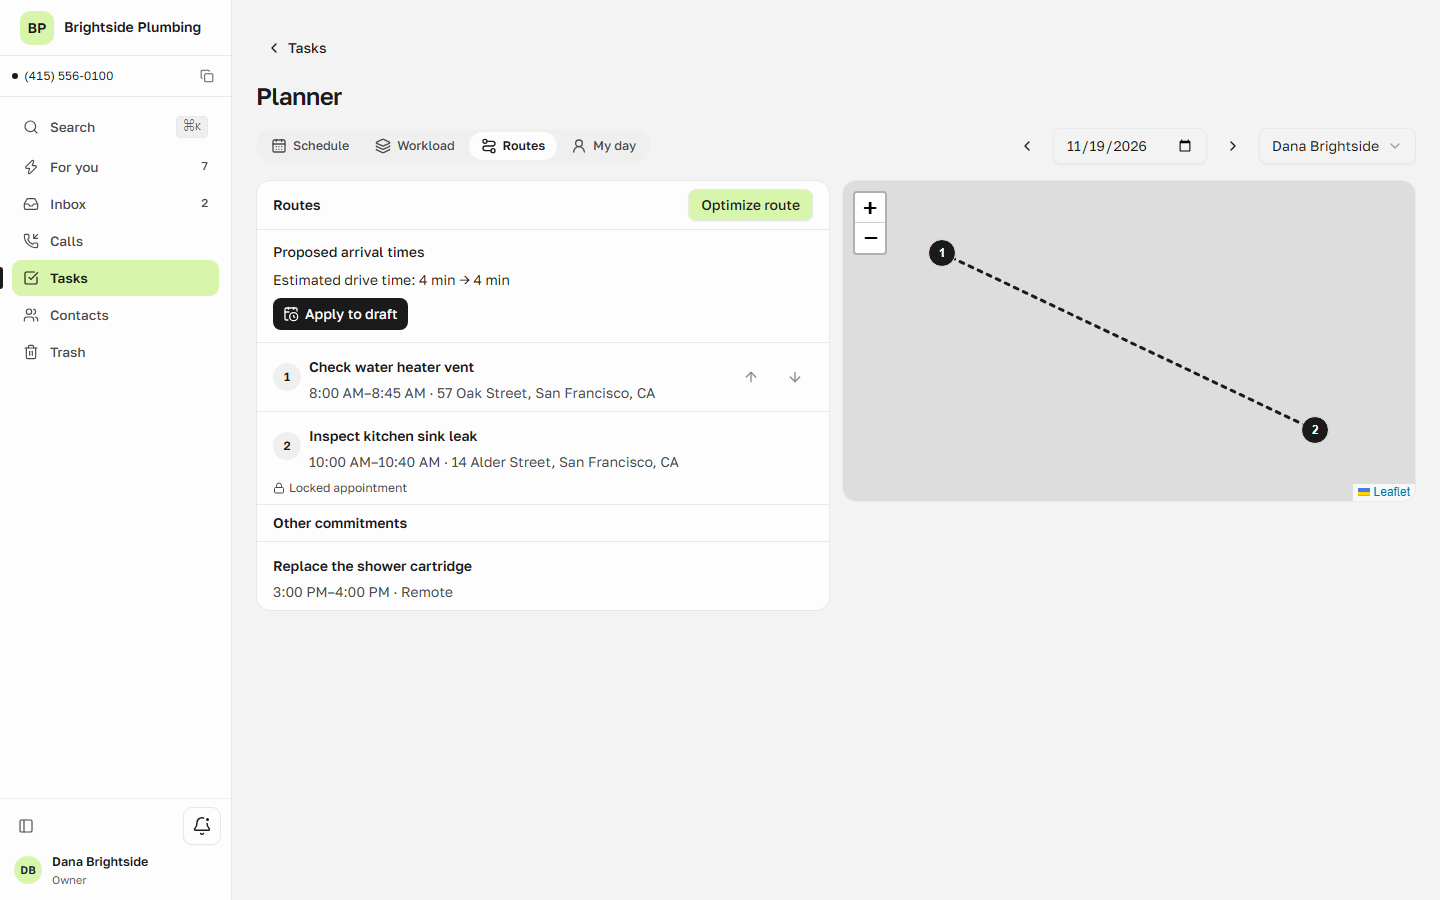
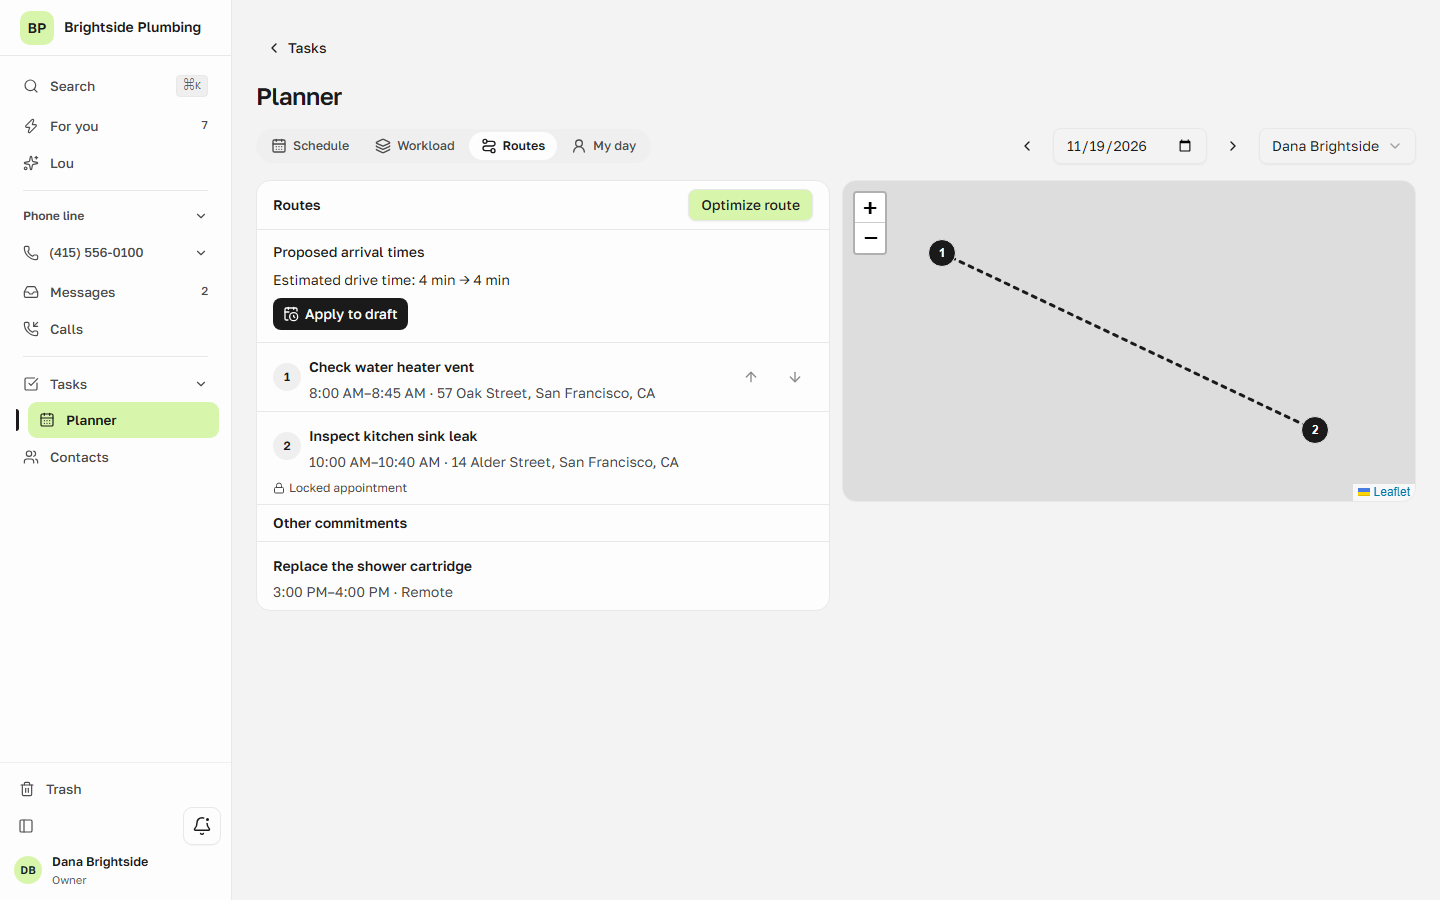
fix(tasks): show full booking titles on the planner timeline

diff --git a/apps/web/src/components/tasks/dispatch-views.tsx b/apps/web/src/components/tasks/dispatch-views.tsx
@@ -110,7 +110,7 @@ export function DispatchSchedule({ plan, day, focused, editable, onSelect }: {
                   const right = Math.min(100, percent(Date.parse(item.ends_at)));
                   return <button key={item.id} type="button"
                     className="absolute z-1 min-h-9 min-w-28 overflow-hidden rounded-md border bg-secondary px-1.5 text-left text-xs text-secondary-foreground hover:bg-accent hover:text-accent-foreground focus-visible:z-2 focus-visible:outline-2 focus-visible:outline-ring"
-                    title={`${timeSpan(plan, item, t.locale)}${item.locked ? ` · ${t("tasks.dispatchLocked")}` : ""}`}
+                    title={`${task.title} · ${timeSpan(plan, item, t.locale)}${item.locked ? ` · ${t("tasks.dispatchLocked")}` : ""}`}
                     style={{ left: `min(${left}%, calc(100% - 7rem))`, width: `${right - left}%`, top: index % 2 ? 49 : 8 }}
                     onClick={() => editable ? onSelect(task, item) : openTask(task.id)}>
                     <span className="flex items-center gap-1 truncate">{item.locked && <Lock className="size-3 shrink-0" aria-hidden />}{task.title}</span>
